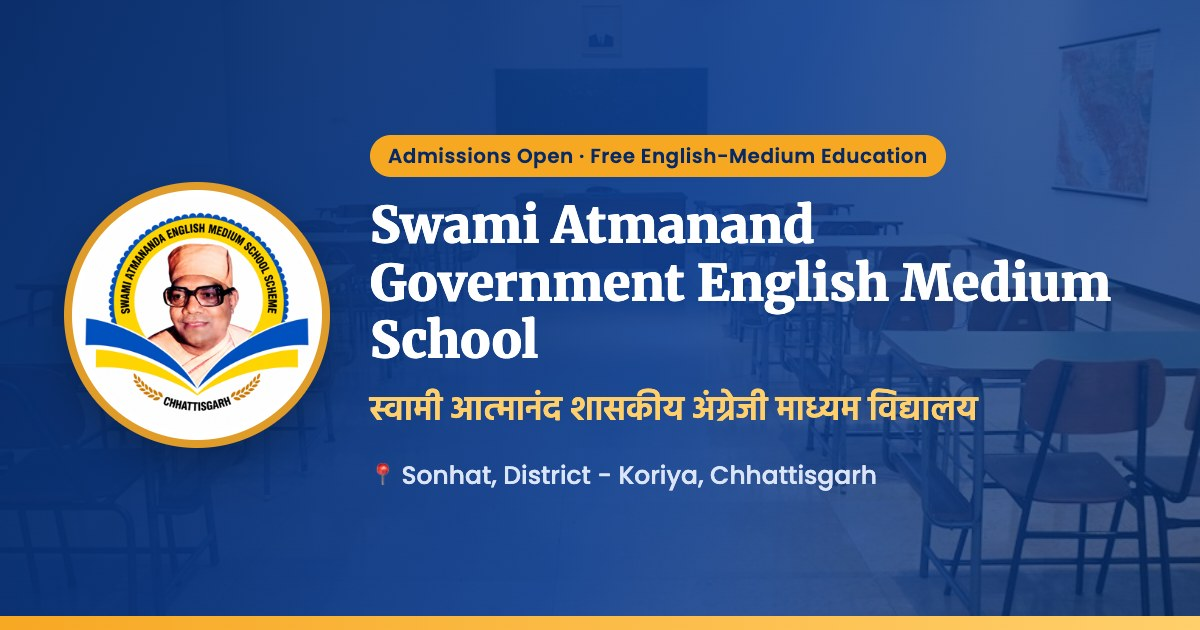
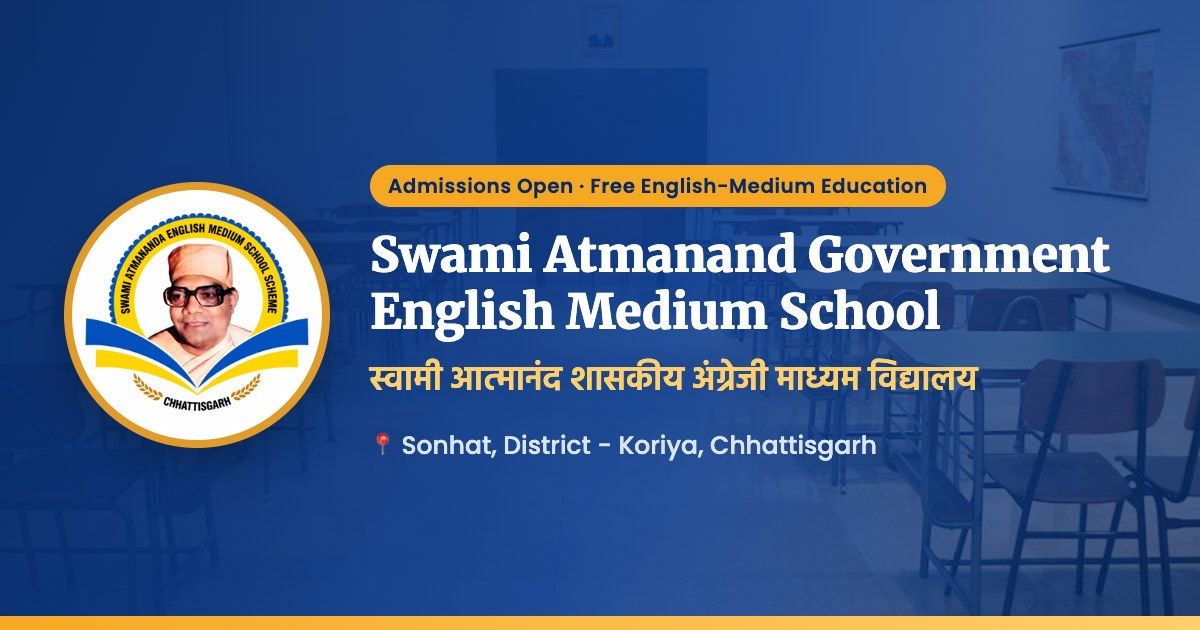
Link preview: title on two lines (… Government / English Medium School); bump image version

Changed region(s): [[0.3083, 0.2111, 0.925, 0.7841]]

diff --git a/index.html b/index.html
@@ -14,14 +14,14 @@
   <meta property="og:title" content="SAGES Sonhat | Swami Atmanand Govt. English Medium School, Sonhat">
   <meta property="og:description" content="Swami Atmanand Government English Medium School, Sonhat (Koriya, Chhattisgarh) – free, quality English-medium education from Class 1 to 12. Admissions, faculty, notices, events and gallery.">
   <meta property="og:url" content="https://sagessonhatkorea.vercel.app/">
-  <meta property="og:image" content="https://sagessonhatkorea.vercel.app/images/og-image.jpg">
+  <meta property="og:image" content="https://sagessonhatkorea.vercel.app/images/og-image.jpg?v=2">
   <meta property="og:image:width" content="1200">
   <meta property="og:image:height" content="630">
   <meta property="og:image:alt" content="Swami Atmanand Government English Medium School, Sonhat">
   <meta name="twitter:card" content="summary_large_image">
   <meta name="twitter:title" content="SAGES Sonhat | Swami Atmanand Govt. English Medium School, Sonhat">
   <meta name="twitter:description" content="Swami Atmanand Government English Medium School, Sonhat (Koriya, Chhattisgarh) – free, quality English-medium education from Class 1 to 12. Admissions, faculty, notices, events and gallery.">
-  <meta name="twitter:image" content="https://sagessonhatkorea.vercel.app/images/og-image.jpg">
+  <meta name="twitter:image" content="https://sagessonhatkorea.vercel.app/images/og-image.jpg?v=2">
   <link rel="preconnect" href="https://fonts.googleapis.com">
   <link href="https://fonts.googleapis.com/css2?family=Merriweather:wght@700&family=Poppins:wght@400;500;600&display=swap" rel="stylesheet">
   <link rel="icon" href="/images/favicon.png">

diff --git a/pages/about.html b/pages/about.html
@@ -14,14 +14,14 @@
   <meta property="og:title" content="About Us | SAGES Sonhat">
   <meta property="og:description" content="Our vision, mission and story – part of the Swami Atmanand Utkrisht Vidyalaya Yojana bringing free English-medium education to Sonhat, Koriya.">
   <meta property="og:url" content="https://sagessonhatkorea.vercel.app/pages/about.html">
-  <meta property="og:image" content="https://sagessonhatkorea.vercel.app/images/og-image.jpg">
+  <meta property="og:image" content="https://sagessonhatkorea.vercel.app/images/og-image.jpg?v=2">
   <meta property="og:image:width" content="1200">
   <meta property="og:image:height" content="630">
   <meta property="og:image:alt" content="Swami Atmanand Government English Medium School, Sonhat">
   <meta name="twitter:card" content="summary_large_image">
   <meta name="twitter:title" content="About Us | SAGES Sonhat">
   <meta name="twitter:description" content="Our vision, mission and story – part of the Swami Atmanand Utkrisht Vidyalaya Yojana bringing free English-medium education to Sonhat, Koriya.">
-  <meta name="twitter:image" content="https://sagessonhatkorea.vercel.app/images/og-image.jpg">
+  <meta name="twitter:image" content="https://sagessonhatkorea.vercel.app/images/og-image.jpg?v=2">
   <link href="https://fonts.googleapis.com/css2?family=Merriweather:wght@700&family=Poppins:wght@400;500;600&display=swap" rel="stylesheet">
   <link rel="icon" href="/images/favicon.png">
   <link rel="stylesheet" href="/css/style.css">

diff --git a/pages/contact.html b/pages/contact.html
@@ -14,14 +14,14 @@
   <meta property="og:title" content="Contact Us | SAGES Sonhat">
   <meta property="og:description" content="Address, phone, email, office hours and map for Swami Atmanand Govt. English Medium School, Sonhat, District Koriya, Chhattisgarh.">
   <meta property="og:url" content="https://sagessonhatkorea.vercel.app/pages/contact.html">
-  <meta property="og:image" content="https://sagessonhatkorea.vercel.app/images/og-image.jpg">
+  <meta property="og:image" content="https://sagessonhatkorea.vercel.app/images/og-image.jpg?v=2">
   <meta property="og:image:width" content="1200">
   <meta property="og:image:height" content="630">
   <meta property="og:image:alt" content="Swami Atmanand Government English Medium School, Sonhat">
   <meta name="twitter:card" content="summary_large_image">
   <meta name="twitter:title" content="Contact Us | SAGES Sonhat">
   <meta name="twitter:description" content="Address, phone, email, office hours and map for Swami Atmanand Govt. English Medium School, Sonhat, District Koriya, Chhattisgarh.">
-  <meta name="twitter:image" content="https://sagessonhatkorea.vercel.app/images/og-image.jpg">
+  <meta name="twitter:image" content="https://sagessonhatkorea.vercel.app/images/og-image.jpg?v=2">
   <link href="https://fonts.googleapis.com/css2?family=Merriweather:wght@700&family=Poppins:wght@400;500;600&display=swap" rel="stylesheet">
   <link rel="icon" href="/images/favicon.png">
   <link rel="stylesheet" href="/css/style.css">

diff --git a/pages/administration.html b/pages/administration.html
@@ -14,14 +14,14 @@
   <meta property="og:title" content="Administration | SAGES Sonhat">
   <meta property="og:description" content="Meet the Principal, School Management Committee, faculty and staff of Swami Atmanand Govt. English Medium School, Sonhat.">
   <meta property="og:url" content="https://sagessonhatkorea.vercel.app/pages/administration.html">
-  <meta property="og:image" content="https://sagessonhatkorea.vercel.app/images/og-image.jpg">
+  <meta property="og:image" content="https://sagessonhatkorea.vercel.app/images/og-image.jpg?v=2">
   <meta property="og:image:width" content="1200">
   <meta property="og:image:height" content="630">
   <meta property="og:image:alt" content="Swami Atmanand Government English Medium School, Sonhat">
   <meta name="twitter:card" content="summary_large_image">
   <meta name="twitter:title" content="Administration | SAGES Sonhat">
   <meta name="twitter:description" content="Meet the Principal, School Management Committee, faculty and staff of Swami Atmanand Govt. English Medium School, Sonhat.">
-  <meta name="twitter:image" content="https://sagessonhatkorea.vercel.app/images/og-image.jpg">
+  <meta name="twitter:image" content="https://sagessonhatkorea.vercel.app/images/og-image.jpg?v=2">
   <link href="https://fonts.googleapis.com/css2?family=Merriweather:wght@700&family=Poppins:wght@400;500;600&display=swap" rel="stylesheet">
   <link rel="icon" href="/images/favicon.png">
   <link rel="stylesheet" href="/css/style.css">

diff --git a/pages/admission.html b/pages/admission.html
@@ -14,14 +14,14 @@
   <meta property="og:title" content="Admission | SAGES Sonhat">
   <meta property="og:description" content="Admission process, eligibility and documents for SAGES Sonhat. Download the admission form and send a registration enquiry.">
   <meta property="og:url" content="https://sagessonhatkorea.vercel.app/pages/admission.html">
-  <meta property="og:image" content="https://sagessonhatkorea.vercel.app/images/og-image.jpg">
+  <meta property="og:image" content="https://sagessonhatkorea.vercel.app/images/og-image.jpg?v=2">
   <meta property="og:image:width" content="1200">
   <meta property="og:image:height" content="630">
   <meta property="og:image:alt" content="Swami Atmanand Government English Medium School, Sonhat">
   <meta name="twitter:card" content="summary_large_image">
   <meta name="twitter:title" content="Admission | SAGES Sonhat">
   <meta name="twitter:description" content="Admission process, eligibility and documents for SAGES Sonhat. Download the admission form and send a registration enquiry.">
-  <meta name="twitter:image" content="https://sagessonhatkorea.vercel.app/images/og-image.jpg">
+  <meta name="twitter:image" content="https://sagessonhatkorea.vercel.app/images/og-image.jpg?v=2">
   <link href="https://fonts.googleapis.com/css2?family=Merriweather:wght@700&family=Poppins:wght@400;500;600&display=swap" rel="stylesheet">
   <link rel="icon" href="/images/favicon.png">
   <link rel="stylesheet" href="/css/style.css">

diff --git a/pages/infrastructure.html b/pages/infrastructure.html
@@ -14,14 +14,14 @@
   <meta property="og:title" content="Infrastructure | SAGES Sonhat">
   <meta property="og:description" content="Smart classrooms, science, computer and language labs, library and campus facilities at SAGES Sonhat.">
   <meta property="og:url" content="https://sagessonhatkorea.vercel.app/pages/infrastructure.html">
-  <meta property="og:image" content="https://sagessonhatkorea.vercel.app/images/og-image.jpg">
+  <meta property="og:image" content="https://sagessonhatkorea.vercel.app/images/og-image.jpg?v=2">
   <meta property="og:image:width" content="1200">
   <meta property="og:image:height" content="630">
   <meta property="og:image:alt" content="Swami Atmanand Government English Medium School, Sonhat">
   <meta name="twitter:card" content="summary_large_image">
   <meta name="twitter:title" content="Infrastructure | SAGES Sonhat">
   <meta name="twitter:description" content="Smart classrooms, science, computer and language labs, library and campus facilities at SAGES Sonhat.">
-  <meta name="twitter:image" content="https://sagessonhatkorea.vercel.app/images/og-image.jpg">
+  <meta name="twitter:image" content="https://sagessonhatkorea.vercel.app/images/og-image.jpg?v=2">
   <link href="https://fonts.googleapis.com/css2?family=Merriweather:wght@700&family=Poppins:wght@400;500;600&display=swap" rel="stylesheet">
   <link rel="icon" href="/images/favicon.png">
   <link rel="stylesheet" href="/css/style.css">

diff --git a/pages/activities.html b/pages/activities.html
@@ -14,14 +14,14 @@
   <meta property="og:title" content="Co-curricular Activities | SAGES Sonhat">
   <meta property="og:description" content="Sports, cultural and technical events, and Scout Guide / NSS activities at SAGES Sonhat.">
   <meta property="og:url" content="https://sagessonhatkorea.vercel.app/pages/activities.html">
-  <meta property="og:image" content="https://sagessonhatkorea.vercel.app/images/og-image.jpg">
+  <meta property="og:image" content="https://sagessonhatkorea.vercel.app/images/og-image.jpg?v=2">
   <meta property="og:image:width" content="1200">
   <meta property="og:image:height" content="630">
   <meta property="og:image:alt" content="Swami Atmanand Government English Medium School, Sonhat">
   <meta name="twitter:card" content="summary_large_image">
   <meta name="twitter:title" content="Co-curricular Activities | SAGES Sonhat">
   <meta name="twitter:description" content="Sports, cultural and technical events, and Scout Guide / NSS activities at SAGES Sonhat.">
-  <meta name="twitter:image" content="https://sagessonhatkorea.vercel.app/images/og-image.jpg">
+  <meta name="twitter:image" content="https://sagessonhatkorea.vercel.app/images/og-image.jpg?v=2">
   <link href="https://fonts.googleapis.com/css2?family=Merriweather:wght@700&family=Poppins:wght@400;500;600&display=swap" rel="stylesheet">
   <link rel="icon" href="/images/favicon.png">
   <link rel="stylesheet" href="/css/style.css">

diff --git a/pages/news.html b/pages/news.html
@@ -14,14 +14,14 @@
   <meta property="og:title" content="News &amp; Events | SAGES Sonhat">
   <meta property="og:description" content="Latest notices, news and upcoming events from Swami Atmanand Govt. English Medium School, Sonhat.">
   <meta property="og:url" content="https://sagessonhatkorea.vercel.app/pages/news.html">
-  <meta property="og:image" content="https://sagessonhatkorea.vercel.app/images/og-image.jpg">
+  <meta property="og:image" content="https://sagessonhatkorea.vercel.app/images/og-image.jpg?v=2">
   <meta property="og:image:width" content="1200">
   <meta property="og:image:height" content="630">
   <meta property="og:image:alt" content="Swami Atmanand Government English Medium School, Sonhat">
   <meta name="twitter:card" content="summary_large_image">
   <meta name="twitter:title" content="News &amp; Events | SAGES Sonhat">
   <meta name="twitter:description" content="Latest notices, news and upcoming events from Swami Atmanand Govt. English Medium School, Sonhat.">
-  <meta name="twitter:image" content="https://sagessonhatkorea.vercel.app/images/og-image.jpg">
+  <meta name="twitter:image" content="https://sagessonhatkorea.vercel.app/images/og-image.jpg?v=2">
   <link href="https://fonts.googleapis.com/css2?family=Merriweather:wght@700&family=Poppins:wght@400;500;600&display=swap" rel="stylesheet">
   <link rel="icon" href="/images/favicon.png">
   <link rel="stylesheet" href="/css/style.css">

diff --git a/pages/academic.html b/pages/academic.html
@@ -14,14 +14,14 @@
   <meta property="og:title" content="Academic | SAGES Sonhat">
   <meta property="og:description" content="Classes, curriculum, board results, student achievements and the school calendar at SAGES Sonhat.">
   <meta property="og:url" content="https://sagessonhatkorea.vercel.app/pages/academic.html">
-  <meta property="og:image" content="https://sagessonhatkorea.vercel.app/images/og-image.jpg">
+  <meta property="og:image" content="https://sagessonhatkorea.vercel.app/images/og-image.jpg?v=2">
   <meta property="og:image:width" content="1200">
   <meta property="og:image:height" content="630">
   <meta property="og:image:alt" content="Swami Atmanand Government English Medium School, Sonhat">
   <meta name="twitter:card" content="summary_large_image">
   <meta name="twitter:title" content="Academic | SAGES Sonhat">
   <meta name="twitter:description" content="Classes, curriculum, board results, student achievements and the school calendar at SAGES Sonhat.">
-  <meta name="twitter:image" content="https://sagessonhatkorea.vercel.app/images/og-image.jpg">
+  <meta name="twitter:image" content="https://sagessonhatkorea.vercel.app/images/og-image.jpg?v=2">
   <link href="https://fonts.googleapis.com/css2?family=Merriweather:wght@700&family=Poppins:wght@400;500;600&display=swap" rel="stylesheet">
   <link rel="icon" href="/images/favicon.png">
   <link rel="stylesheet" href="/css/style.css">

diff --git a/pages/gallery.html b/pages/gallery.html
@@ -14,14 +14,14 @@
   <meta property="og:title" content="Photo Gallery | SAGES Sonhat">
   <meta property="og:description" content="Photos of classrooms, labs, celebrations, sports and everyday life at SAGES Sonhat.">
   <meta property="og:url" content="https://sagessonhatkorea.vercel.app/pages/gallery.html">
-  <meta property="og:image" content="https://sagessonhatkorea.vercel.app/images/og-image.jpg">
+  <meta property="og:image" content="https://sagessonhatkorea.vercel.app/images/og-image.jpg?v=2">
   <meta property="og:image:width" content="1200">
   <meta property="og:image:height" content="630">
   <meta property="og:image:alt" content="Swami Atmanand Government English Medium School, Sonhat">
   <meta name="twitter:card" content="summary_large_image">
   <meta name="twitter:title" content="Photo Gallery | SAGES Sonhat">
   <meta name="twitter:description" content="Photos of classrooms, labs, celebrations, sports and everyday life at SAGES Sonhat.">
-  <meta name="twitter:image" content="https://sagessonhatkorea.vercel.app/images/og-image.jpg">
+  <meta name="twitter:image" content="https://sagessonhatkorea.vercel.app/images/og-image.jpg?v=2">
   <link href="https://fonts.googleapis.com/css2?family=Merriweather:wght@700&family=Poppins:wght@400;500;600&display=swap" rel="stylesheet">
   <link rel="icon" href="/images/favicon.png">
   <link rel="stylesheet" href="/css/style.css">
